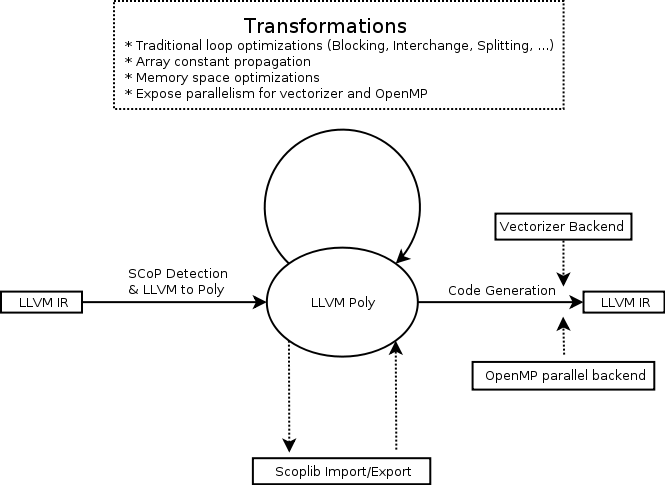
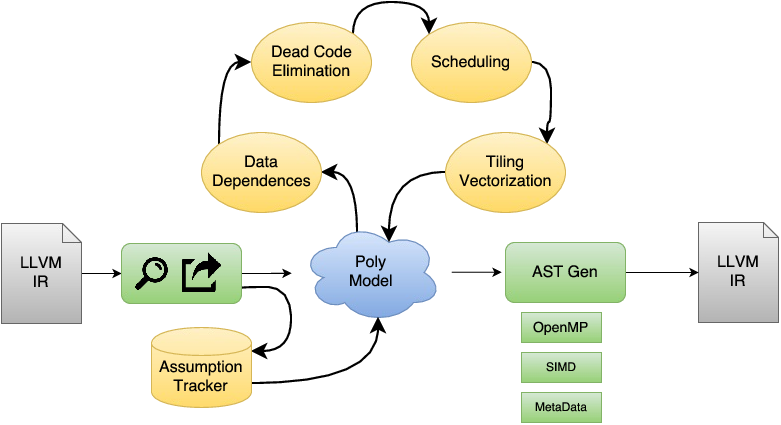
www: Reference doxygen documentation directly from the menu
llvm-svn: 264399

diff --git a/polly/www/documentation.html b/polly/www/documentation.html
@@ -29,7 +29,6 @@ individual pieces of Polly</a>
 </li>
 <li><a href="documentation/passes.html">A list of the LLVM passes available
 in Polly</a></li>
-<li><a href="doxygen/">Doxygen documentation</a></li>
 <li><a href="docs/">New SPINX based documentation (early stage)</a></li>
 </ul>
 </div>
